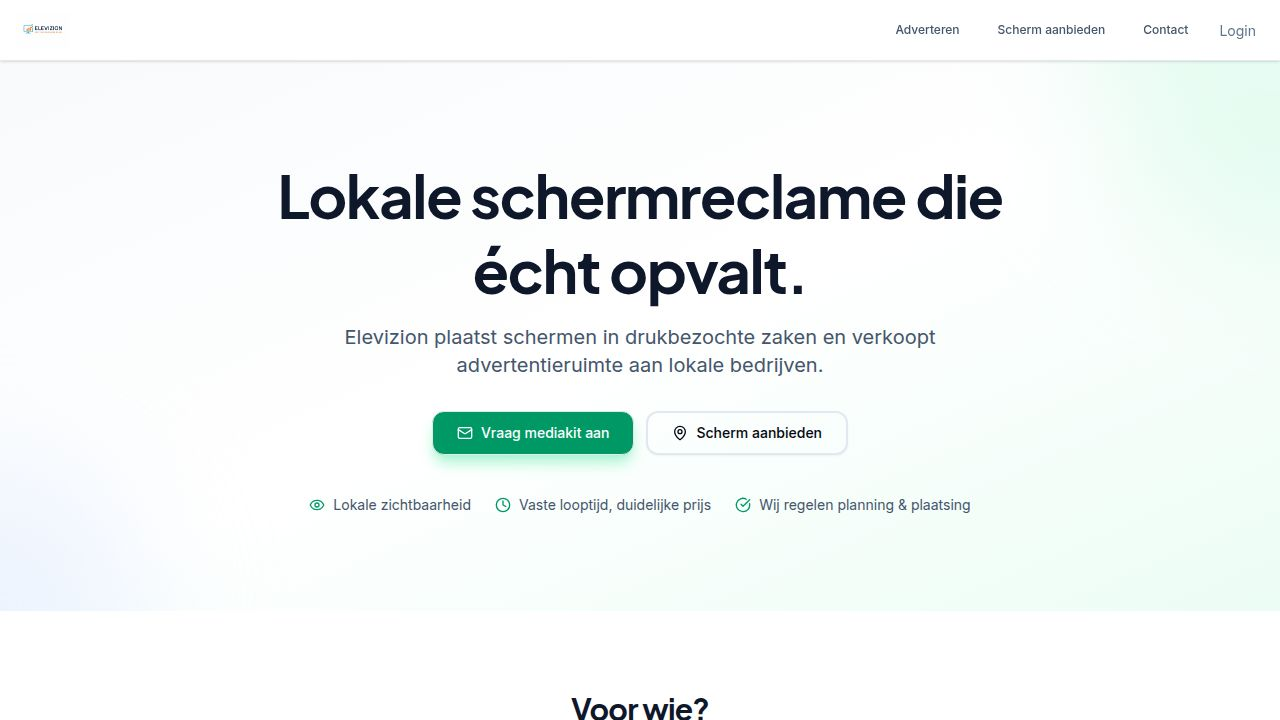
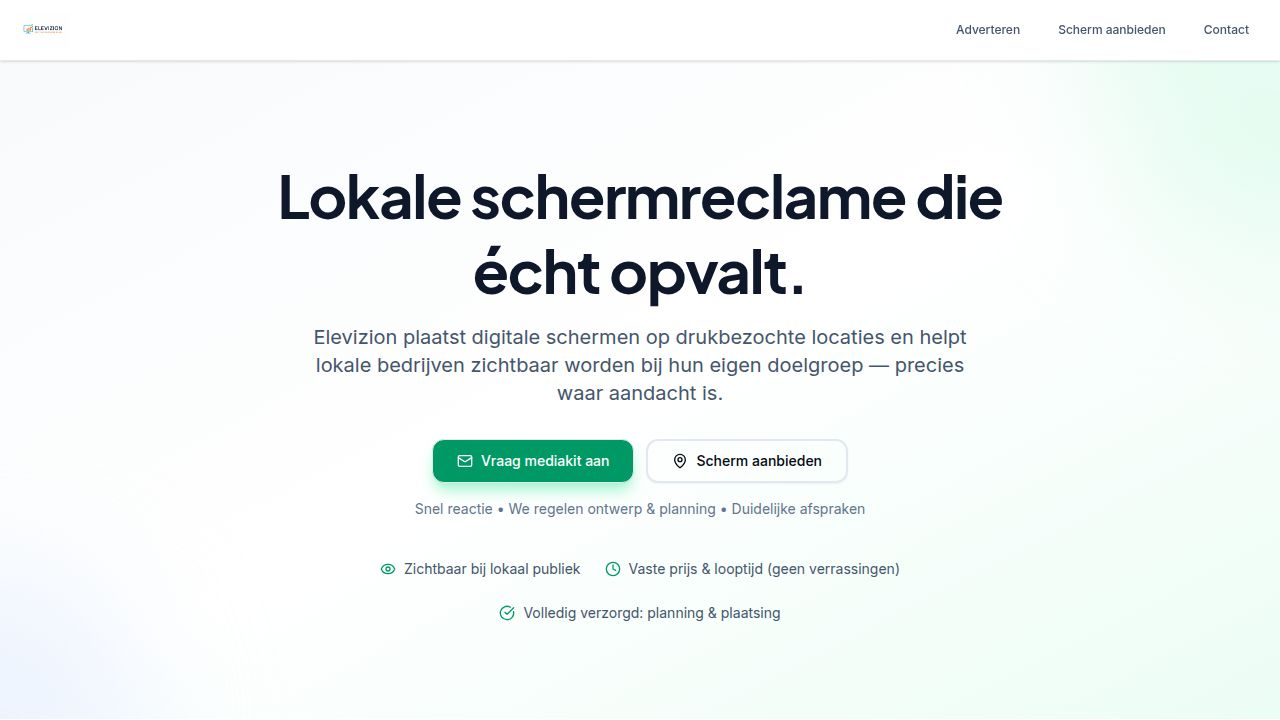
Enhance landing page with improved copy and trust elements
Update client/src/pages/Landing.tsx to refine hero section copy, add microcopy, adjust USP bullets, introduce an interrupt section, humanize the step-by-step process, rephrase package details, and add a trust section with location examples.

Replit-Commit-Author: Agent
Replit-Commit-Session-Id: c96305a3-fa83-4e4c-986a-f9e030a8d0b9
Replit-Commit-Checkpoint-Type: full_checkpoint
Replit-Commit-Event-Id: 01a7aa88-e420-40ef-84fb-c2d54fe5448b
Replit-Commit-Screenshot-Url: https://storage.googleapis.com/screenshot-production-us-central1/d5217d88-ea4d-4d81-8cba-388bc6975a61/c96305a3-fa83-4e4c-986a-f9e030a8d0b9/TJaxhHo
Replit-Helium-Checkpoint-Created: true

diff --git a/client/src/pages/Landing.tsx b/client/src/pages/Landing.tsx
@@ -8,7 +8,8 @@ import {
 } from "@/components/ui/accordion";
 import { 
   Monitor, MapPin, Eye, Clock, CheckCircle, Mail, 
-  ArrowRight, Building2, Megaphone, Handshake, Play
+  ArrowRight, Building2, Megaphone, Handshake, Play,
+  Scissors, Dumbbell, Coffee
 } from "lucide-react";
 
 export default function Landing() {
@@ -72,9 +73,9 @@ export default function Landing() {
               Lokale schermreclame die écht opvalt.
             </h1>
             <p className="text-lg md:text-xl text-slate-600 mb-8 max-w-2xl mx-auto">
-              Elevizion plaatst schermen in drukbezochte zaken en verkoopt advertentieruimte aan lokale bedrijven.
+              Elevizion plaatst digitale schermen op drukbezochte locaties en helpt lokale bedrijven zichtbaar worden bij hun eigen doelgroep — precies waar aandacht is.
             </p>
-            <div className="flex flex-col sm:flex-row gap-3 justify-center mb-10">
+            <div className="flex flex-col sm:flex-row gap-3 justify-center mb-4">
               <a href="mailto:info@elevizion.nl?subject=Mediakit%20aanvragen">
                 <Button size="lg" className="gap-2 bg-emerald-600 hover:bg-emerald-700 px-6 w-full sm:w-auto shadow-lg shadow-emerald-200" data-testid="button-cta-mediakit">
                   <Mail className="h-4 w-4" />
@@ -92,18 +93,21 @@ export default function Landing() {
                 Scherm aanbieden
               </Button>
             </div>
+            <p className="text-sm text-slate-500 mb-10">
+              Snel reactie • We regelen ontwerp & planning • Duidelijke afspraken
+            </p>
             <div className="flex flex-wrap justify-center gap-6 text-sm text-slate-600">
               <div className="flex items-center gap-2">
                 <Eye className="h-4 w-4 text-emerald-600" />
-                <span>Lokale zichtbaarheid</span>
+                <span>Zichtbaar bij lokaal publiek</span>
               </div>
               <div className="flex items-center gap-2">
                 <Clock className="h-4 w-4 text-emerald-600" />
-                <span>Vaste looptijd, duidelijke prijs</span>
+                <span>Vaste prijs & looptijd (geen verrassingen)</span>
               </div>
               <div className="flex items-center gap-2">
                 <CheckCircle className="h-4 w-4 text-emerald-600" />
-                <span>Wij regelen planning & plaatsing</span>
+                <span>Volledig verzorgd: planning & plaatsing</span>
               </div>
             </div>
           </div>
@@ -118,11 +122,14 @@ export default function Landing() {
           </p>
           <div className="grid md:grid-cols-2 gap-6 max-w-4xl mx-auto">
             <Card className="border-2 hover:border-emerald-200 transition-colors">
-              <CardHeader className="pb-4">
+              <CardHeader className="pb-2">
                 <div className="w-12 h-12 rounded-lg bg-emerald-100 flex items-center justify-center mb-3">
                   <Megaphone className="h-6 w-6 text-emerald-600" />
                 </div>
                 <CardTitle className="text-xl">Voor adverteerders</CardTitle>
+                <p className="text-sm text-slate-500 mt-1">
+                  Ideaal voor ondernemers die lokaal willen groeien zonder verspilling aan online advertentiebudget.
+                </p>
               </CardHeader>
               <CardContent className="space-y-4">
                 <ul className="space-y-3 text-slate-600">
@@ -136,7 +143,7 @@ export default function Landing() {
                   </li>
                   <li className="flex items-start gap-2">
                     <CheckCircle className="h-5 w-5 text-emerald-500 flex-shrink-0 mt-0.5" />
-                    <span>Zichtbaar waar je doelgroep komt</span>
+                    <span>Zichtbaar waar je doelgroep écht komt</span>
                   </li>
                 </ul>
                 <a href="mailto:info@elevizion.nl?subject=Adverteren%20via%20Elevizion">
@@ -149,25 +156,28 @@ export default function Landing() {
             </Card>
             
             <Card id="scherm-aanbieden" className="border-2 hover:border-blue-200 transition-colors">
-              <CardHeader className="pb-4">
+              <CardHeader className="pb-2">
                 <div className="w-12 h-12 rounded-lg bg-blue-100 flex items-center justify-center mb-3">
                   <Building2 className="h-6 w-6 text-blue-600" />
                 </div>
                 <CardTitle className="text-xl">Voor locaties</CardTitle>
+                <p className="text-sm text-slate-500 mt-1">
+                  Wij plaatsen een scherm dat past bij jouw zaak en regelen alles van content tot onderhoud.
+                </p>
               </CardHeader>
               <CardContent className="space-y-4">
                 <ul className="space-y-3 text-slate-600">
                   <li className="flex items-start gap-2">
                     <CheckCircle className="h-5 w-5 text-blue-500 flex-shrink-0 mt-0.5" />
-                    <span>Gratis scherm en plaatsing (afhankelijk van model)</span>
+                    <span>Scherm en plaatsing vaak kosteloos (afhankelijk van model)</span>
                   </li>
                   <li className="flex items-start gap-2">
                     <CheckCircle className="h-5 w-5 text-blue-500 flex-shrink-0 mt-0.5" />
-                    <span>Extra omzet via commissie op reclame-inkomsten</span>
+                    <span>Maandelijkse vergoeding of commissie op inkomsten</span>
                   </li>
                   <li className="flex items-start gap-2">
                     <CheckCircle className="h-5 w-5 text-blue-500 flex-shrink-0 mt-0.5" />
-                    <span>Wij regelen alle content en onderhoud</span>
+                    <span>Wij regelen content, updates en onderhoud</span>
                   </li>
                 </ul>
                 <a href="mailto:info@elevizion.nl?subject=Scherm%20beschikbaar%20stellen">
@@ -178,6 +188,25 @@ export default function Landing() {
                 </a>
               </CardContent>
             </Card>
+          </div>
+        </div>
+      </section>
+
+      <section className="py-14 md:py-16 bg-slate-800 text-white">
+        <div className="container mx-auto px-4">
+          <div className="max-w-3xl mx-auto text-center">
+            <h2 className="text-2xl md:text-3xl font-bold mb-3">
+              Online advertenties worden weggeklikt. Onze schermen niet.
+            </h2>
+            <p className="text-slate-300 mb-6 max-w-xl mx-auto">
+              Je boodschap komt in beeld op plekken waar mensen wachten, kijken en besluiten.
+            </p>
+            <a href="mailto:info@elevizion.nl?subject=Mediakit%20aanvragen">
+              <Button size="lg" className="gap-2 bg-emerald-600 hover:bg-emerald-700">
+                <Mail className="h-4 w-4" />
+                Vraag mediakit aan
+              </Button>
+            </a>
           </div>
         </div>
       </section>
@@ -195,7 +224,7 @@ export default function Landing() {
               </div>
               <div className="text-sm text-emerald-600 font-medium mb-1">Stap 1</div>
               <h3 className="font-semibold text-lg mb-2">Kennismaken</h3>
-              <p className="text-sm text-slate-600">We bespreken je wensen en mogelijkheden</p>
+              <p className="text-sm text-slate-600">We bespreken je doelen en adviseren welke locaties passen (vrijblijvend).</p>
             </div>
             <div className="text-center">
               <div className="w-14 h-14 rounded-full bg-emerald-600 text-white flex items-center justify-center mx-auto mb-4 shadow-lg shadow-emerald-200">
@@ -203,7 +232,7 @@ export default function Landing() {
               </div>
               <div className="text-sm text-emerald-600 font-medium mb-1">Stap 2</div>
               <h3 className="font-semibold text-lg mb-2">Plaatsing & planning</h3>
-              <p className="text-sm text-slate-600">Wij maken de content en plannen de campagne</p>
+              <p className="text-sm text-slate-600">Wij maken of optimaliseren de content en plannen de campagne.</p>
             </div>
             <div className="text-center">
               <div className="w-14 h-14 rounded-full bg-emerald-600 text-white flex items-center justify-center mx-auto mb-4 shadow-lg shadow-emerald-200">
@@ -211,7 +240,7 @@ export default function Landing() {
               </div>
               <div className="text-sm text-emerald-600 font-medium mb-1">Stap 3</div>
               <h3 className="font-semibold text-lg mb-2">Live + rapportage</h3>
-              <p className="text-sm text-slate-600">Je advertentie draait en je krijgt inzicht in bereik</p>
+              <p className="text-sm text-slate-600">Live op scherm + inzicht in plaatsing en bereik (rapportage).</p>
             </div>
           </div>
         </div>
@@ -221,7 +250,7 @@ export default function Landing() {
         <div className="container mx-auto px-4">
           <h2 className="text-2xl md:text-3xl font-bold text-center text-slate-900 mb-4">Pakketten</h2>
           <p className="text-center text-slate-600 mb-12 max-w-xl mx-auto">
-            Kies het pakket dat bij jou past
+            Deze pakketten zijn een indicatie. We stemmen de campagne altijd af op locatie, doelgroep en budget.
           </p>
           <div className="grid md:grid-cols-3 gap-6 max-w-5xl mx-auto">
             <Card className="border-2">
@@ -237,7 +266,7 @@ export default function Landing() {
                   </li>
                   <li className="flex items-center gap-2">
                     <CheckCircle className="h-4 w-4 text-emerald-500" />
-                    <span>10 seconden per rotatie</span>
+                    <span>Je advertentie verschijnt meerdere keren per uur</span>
                   </li>
                   <li className="flex items-center gap-2">
                     <CheckCircle className="h-4 w-4 text-emerald-500" />
@@ -270,7 +299,7 @@ export default function Landing() {
                   </li>
                   <li className="flex items-center gap-2">
                     <CheckCircle className="h-4 w-4 text-emerald-500" />
-                    <span>15 seconden per rotatie</span>
+                    <span>Meer zendtijd per uur, langere spots</span>
                   </li>
                   <li className="flex items-center gap-2">
                     <CheckCircle className="h-4 w-4 text-emerald-500" />
@@ -278,7 +307,7 @@ export default function Landing() {
                   </li>
                   <li className="flex items-center gap-2">
                     <CheckCircle className="h-4 w-4 text-emerald-500" />
-                    <span>Design support inbegrepen</span>
+                    <span>Ontwerp inbegrepen</span>
                   </li>
                 </ul>
                 <a href="mailto:info@elevizion.nl?subject=Interesse%20in%20Local%20Plus%20pakket">
@@ -296,19 +325,19 @@ export default function Landing() {
                 <ul className="space-y-3 text-sm text-slate-600 mb-6">
                   <li className="flex items-center gap-2">
                     <CheckCircle className="h-4 w-4 text-emerald-500" />
-                    <span>Onbeperkt schermen</span>
+                    <span>Meerdere schermen naar wens</span>
                   </li>
                   <li className="flex items-center gap-2">
                     <CheckCircle className="h-4 w-4 text-emerald-500" />
-                    <span>Premium locaties</span>
+                    <span>Voorrang op premium locaties</span>
                   </li>
                   <li className="flex items-center gap-2">
                     <CheckCircle className="h-4 w-4 text-emerald-500" />
-                    <span>Volledige design service</span>
+                    <span>Volledige ontwerp service</span>
                   </li>
                   <li className="flex items-center gap-2">
                     <CheckCircle className="h-4 w-4 text-emerald-500" />
-                    <span>Uitgebreide analytics</span>
+                    <span>Uitgebreide rapportage</span>
                   </li>
                 </ul>
                 <a href="mailto:info@elevizion.nl?subject=Interesse%20in%20Premium%20pakket">
@@ -327,6 +356,44 @@ export default function Landing() {
                 <ArrowRight className="h-4 w-4" />
               </Button>
             </a>
+          </div>
+        </div>
+      </section>
+
+      <section className="py-16 md:py-20 bg-white border-y">
+        <div className="container mx-auto px-4">
+          <h2 className="text-2xl md:text-3xl font-bold text-center text-slate-900 mb-4">Waar je ons tegenkomt</h2>
+          <p className="text-center text-slate-600 mb-12 max-w-xl mx-auto">
+            Onze schermen staan op plekken waar mensen wachten en kijken
+          </p>
+          <div className="grid md:grid-cols-3 gap-6 max-w-4xl mx-auto">
+            <Card className="border bg-slate-50">
+              <CardContent className="pt-6 text-center">
+                <div className="w-12 h-12 rounded-lg bg-emerald-100 flex items-center justify-center mx-auto mb-4">
+                  <Scissors className="h-6 w-6 text-emerald-600" />
+                </div>
+                <h3 className="font-semibold mb-1">Wachtruimtes & balies</h3>
+                <p className="text-sm text-slate-600">Kappers, tandartsen, praktijken</p>
+              </CardContent>
+            </Card>
+            <Card className="border bg-slate-50">
+              <CardContent className="pt-6 text-center">
+                <div className="w-12 h-12 rounded-lg bg-blue-100 flex items-center justify-center mx-auto mb-4">
+                  <Dumbbell className="h-6 w-6 text-blue-600" />
+                </div>
+                <h3 className="font-semibold mb-1">Sportscholen & studio's</h3>
+                <p className="text-sm text-slate-600">Fitness, yoga, dansstudio's</p>
+              </CardContent>
+            </Card>
+            <Card className="border bg-slate-50">
+              <CardContent className="pt-6 text-center">
+                <div className="w-12 h-12 rounded-lg bg-amber-100 flex items-center justify-center mx-auto mb-4">
+                  <Coffee className="h-6 w-6 text-amber-600" />
+                </div>
+                <h3 className="font-semibold mb-1">Horeca & retail</h3>
+                <p className="text-sm text-slate-600">Cafés, winkels, restaurants</p>
+              </CardContent>
+            </Card>
           </div>
         </div>
       </section>
@@ -376,7 +443,7 @@ export default function Landing() {
                   Wat als ik mijn content wil aanpassen?
                 </AccordionTrigger>
                 <AccordionContent className="text-slate-600">
-                  Content aanpassen kan altijd. Stuur je nieuwe materiaal en wij zorgen dat het binnen 24 uur wordt bijgewerkt.
+                  Content aanpassen kan altijd. Stuur je nieuwe materiaal en wij zorgen dat het snel wordt bijgewerkt.
                 </AccordionContent>
               </AccordionItem>
               <AccordionItem value="item-6" className="bg-white rounded-lg border px-4">
@@ -392,7 +459,32 @@ export default function Landing() {
         </div>
       </section>
 
-      <section id="contact" className="py-16 md:py-20 bg-gradient-to-br from-slate-900 to-slate-800 text-white">
+      <section className="py-16 md:py-20 bg-gradient-to-br from-emerald-600 to-emerald-700 text-white">
+        <div className="container mx-auto px-4">
+          <div className="max-w-2xl mx-auto text-center">
+            <h2 className="text-2xl md:text-3xl font-bold mb-3">Klaar om lokaal zichtbaar te worden?</h2>
+            <p className="text-emerald-100 mb-8">
+              Wij regelen de schermen, planning en content. Jij wordt gezien.
+            </p>
+            <div className="flex flex-col sm:flex-row gap-3 justify-center">
+              <a href="mailto:info@elevizion.nl?subject=Mediakit%20aanvragen">
+                <Button size="lg" className="gap-2 bg-white text-emerald-700 hover:bg-emerald-50 w-full sm:w-auto">
+                  <Mail className="h-4 w-4" />
+                  Vraag mediakit aan
+                </Button>
+              </a>
+              <a href="mailto:info@elevizion.nl?subject=Scherm%20beschikbaar%20stellen">
+                <Button size="lg" variant="outline" className="gap-2 border-2 border-white/30 hover:bg-white/10 text-white w-full sm:w-auto">
+                  <MapPin className="h-4 w-4" />
+                  Scherm aanbieden
+                </Button>
+              </a>
+            </div>
+          </div>
+        </div>
+      </section>
+
+      <section id="contact" className="py-16 md:py-20 bg-slate-900 text-white">
         <div className="container mx-auto px-4">
           <div className="max-w-2xl mx-auto text-center">
             <h2 className="text-2xl md:text-3xl font-bold mb-4">Contact</h2>
